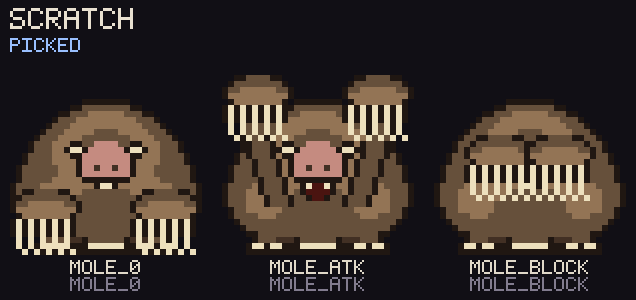
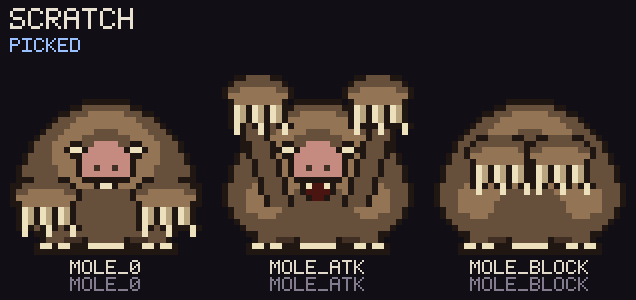
Update the mole sheet, add its 3D shot, and note the claw lesson
Claude-Session: https://claude.ai/code/session_01PN4WJcu7AgUqkFZr6MNgbp

diff --git a/docs/art-review.md b/docs/art-review.md
@@ -69,7 +69,7 @@ than the original but blotchier, not better.
 | Before | After | Sprite | What was wrong → what changed |
 |---|---|---|---|
 | 6 | 7 | Bog Seraph | Striking up close, a spatter of red dots at range. → One bone halo ring, six fur wings radiating through it with gaps between (so the outline stays spiky), a bigger frog face, and two wing-eyes instead of ten. The halo ignites white on the attack. |
-| 6 | 7 | Delver mole | The tell was small. → A pink snout with nostrils and buck teeth, five long talons on each hand, and a mouth that opens under the snout on the lunge. |
+| 6 | 7 | Delver mole | The tell was small. → A pink snout with nostrils and buck teeth, three bold talons on each hand (five thin ones read as stripes), and a mouth that opens under the snout on the lunge. |
 | 6 | 7 | Spore hunter | The tongue hung down all the time, so the attack only lengthened it. → At rest only the tongue's tip shows. On the lunge the gills flare and glowing spores puff out beside the body. The tongue stays: it came from the owner's reference. |
 | 5 | 6 | Mines floor | One dirt tile everywhere. → About one tile in eight is spoil with copper chips (one glinting), rarer still a dropped pick. The shared `DIRT_ROWS` is untouched. |
 | 7 | 7 | Ossuary floor | Long flagstone corridors. → About one tile in eight is a grave lid with a cross cut in it, or an iron drain grate. |

diff --git a/patch_notes.md b/patch_notes.md
@@ -4,7 +4,7 @@
 
 **The Bog Seraph reads from across the room.** It used to be a frog lost in a spatter of red dots. Now a bone halo rings it, six fur wings fan out through the ring, and the frog's face is big: white bulging eyes, red pupils and a toothy grin. Only the top two wings still have eyes. When it attacks, the halo flares white and the grin opens into a maw.
 
-**Delver moles and Spore hunters warn you.** A mole has a proper pink snout with buck teeth and five long talons on each hand, and its mouth opens under the snout when it lunges. A Spore hunter keeps its tongue tucked in until it strikes. Then its gills flare and glowing spores puff out on either side.
+**Delver moles and Spore hunters warn you.** A mole has a proper pink snout with buck teeth and three big claws on each hand, and its mouth opens under the snout when it lunges. A Spore hunter keeps its tongue tucked in until it strikes. Then its gills flare and glowing spores puff out on either side.
 
 **Floors with something on them.** In the Ossuary, about one tile in eight is now a grave lid with a cross cut into it, or an iron drain grate. In the Deep Mines, you'll see spoil with copper in it about as often, and now and then a pick somebody dropped.
 

diff --git a/docs/ART.md b/docs/ART.md
@@ -211,6 +211,8 @@ From reviews of rounds 1–2:
 - **Floor decals need more contrast than the sheet suggests.** The first
   ore and grave tiles looked fine on the sheet and vanished in the lab. Give
   a floor decal a lighter stone or an emissive glint, and check it in 3D.
+- **Fewer, bolder details beat many thin ones.** The mole's five one-pixel
+  talons read as stripes; three two-pixel talons with gaps read as claws.
 - **Ceilings are seen edge-on.** Only things with depth (posts, beams) read
   up there; flat ceiling decals barely register in the lab.
 - **Lab screenshots of a given tile:** `loadLabLevel`, then find a tile whose
